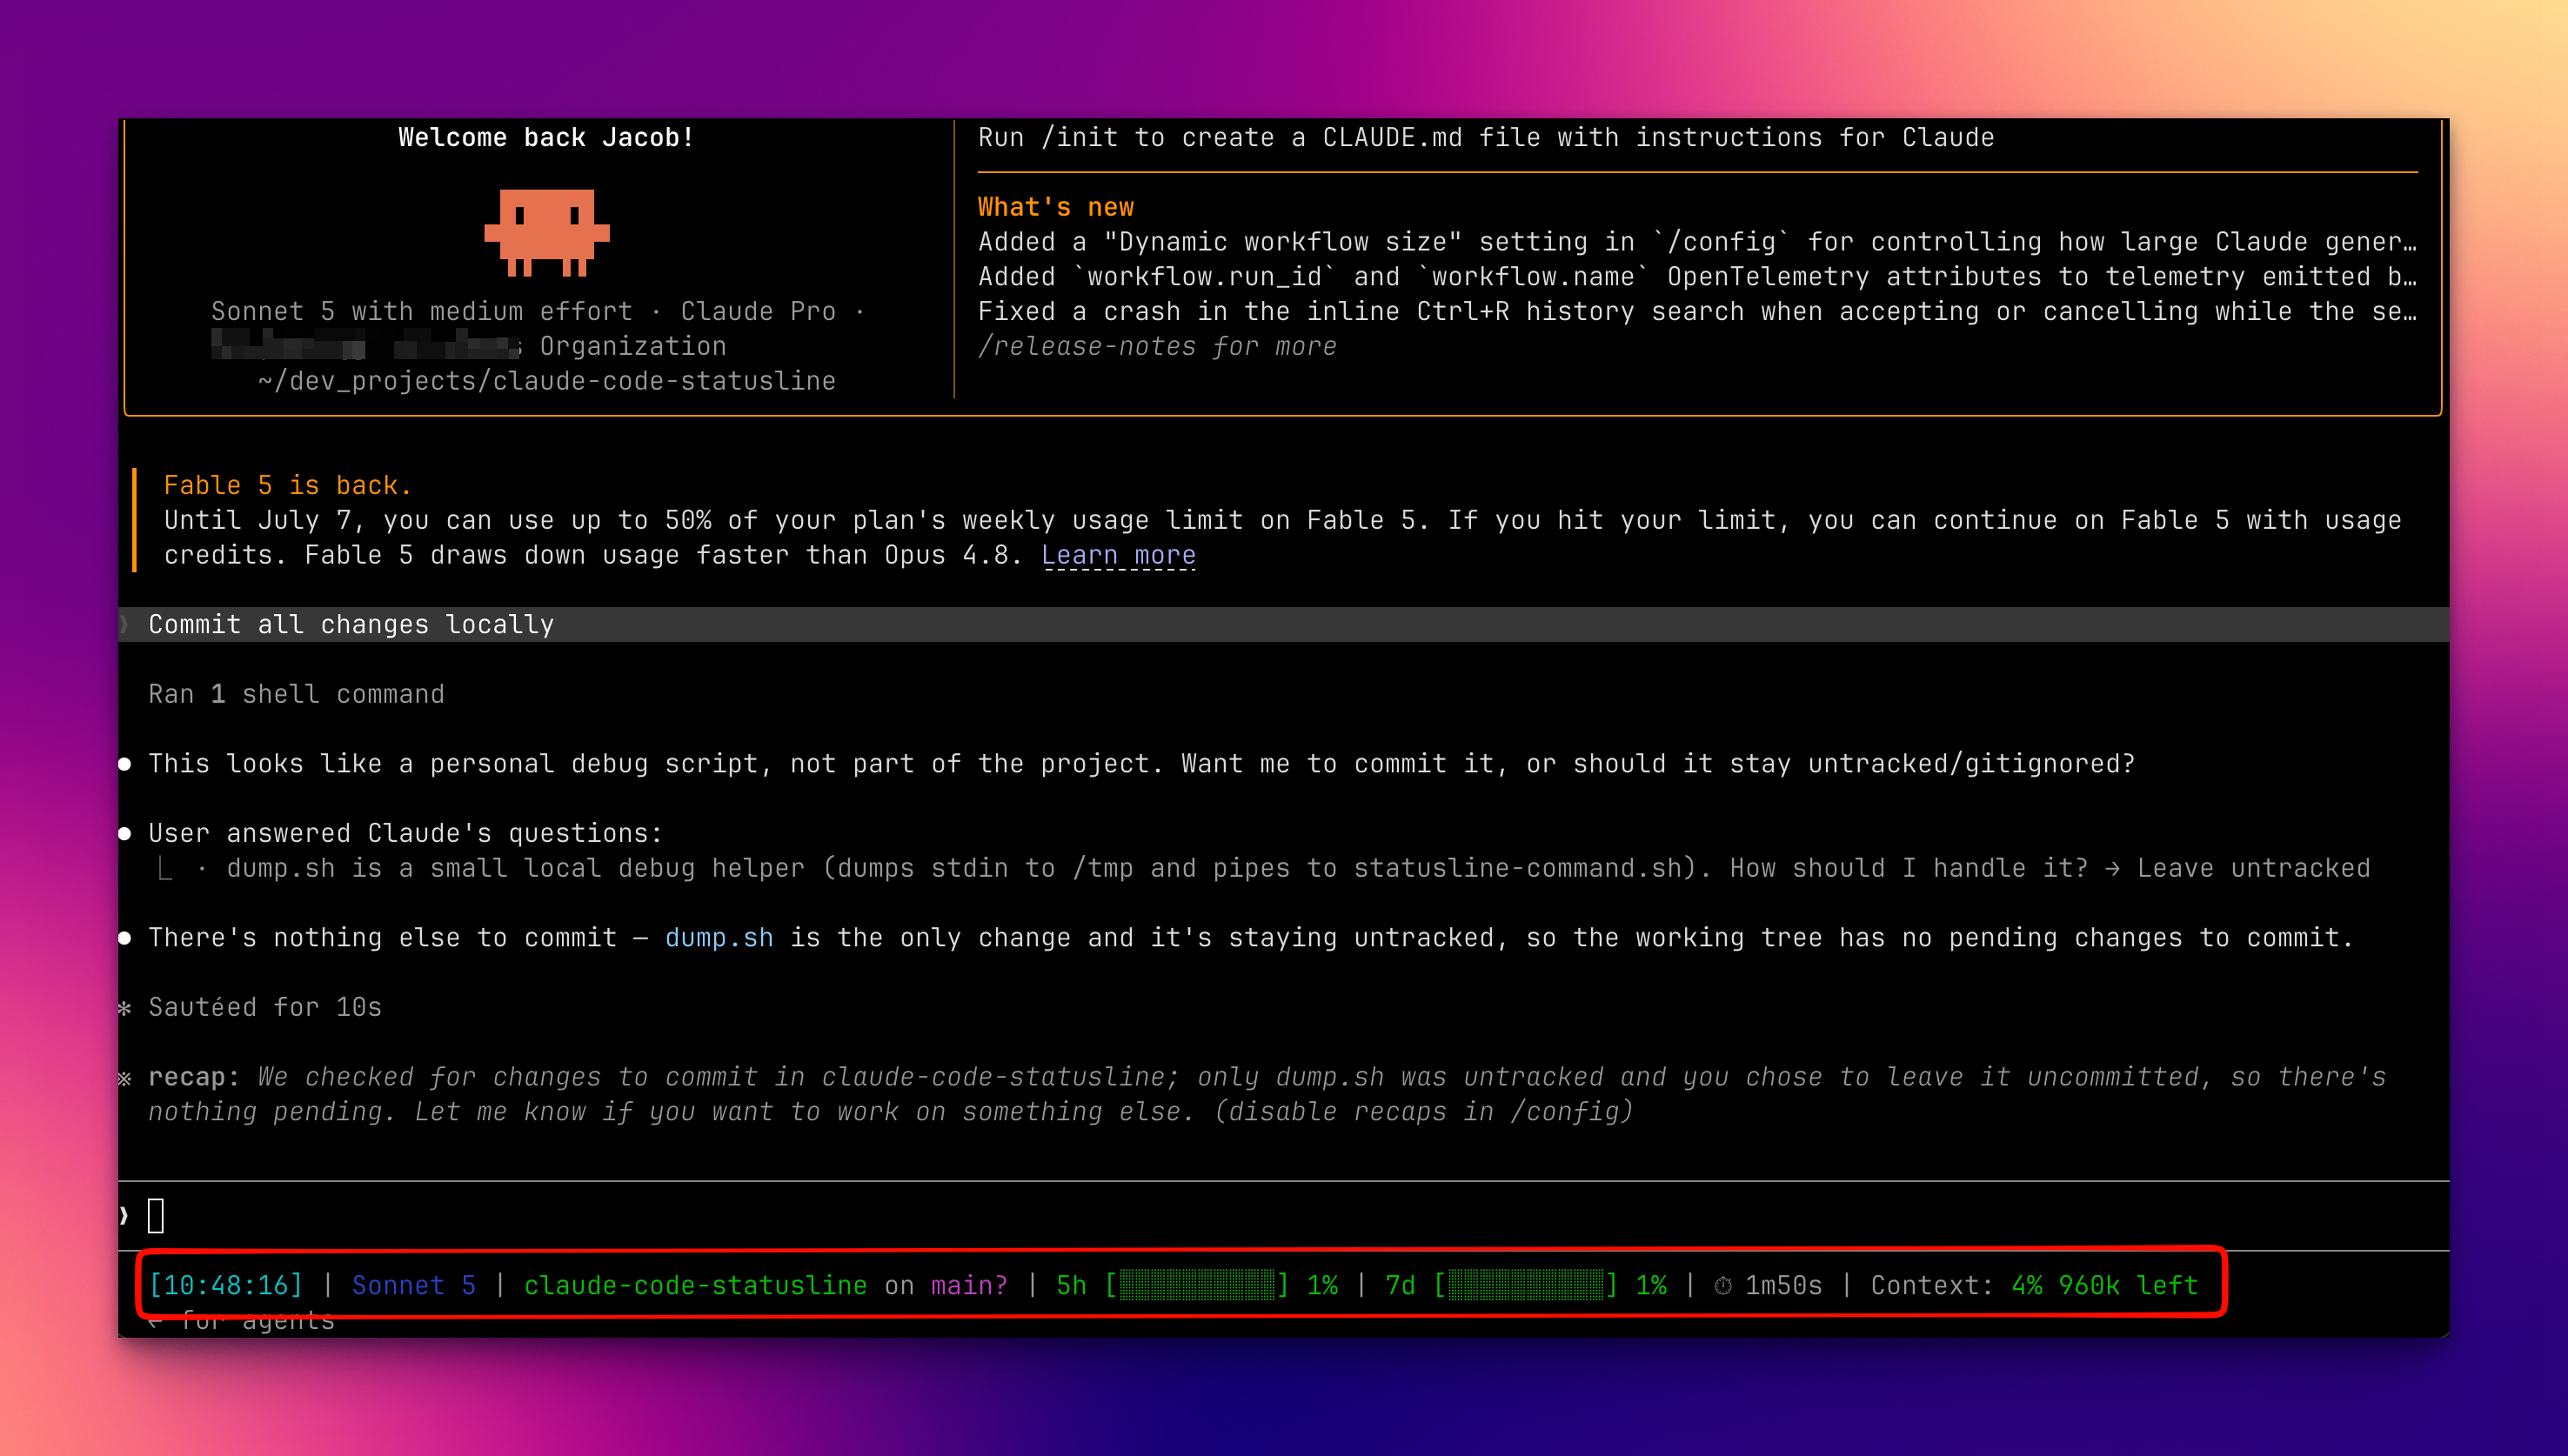
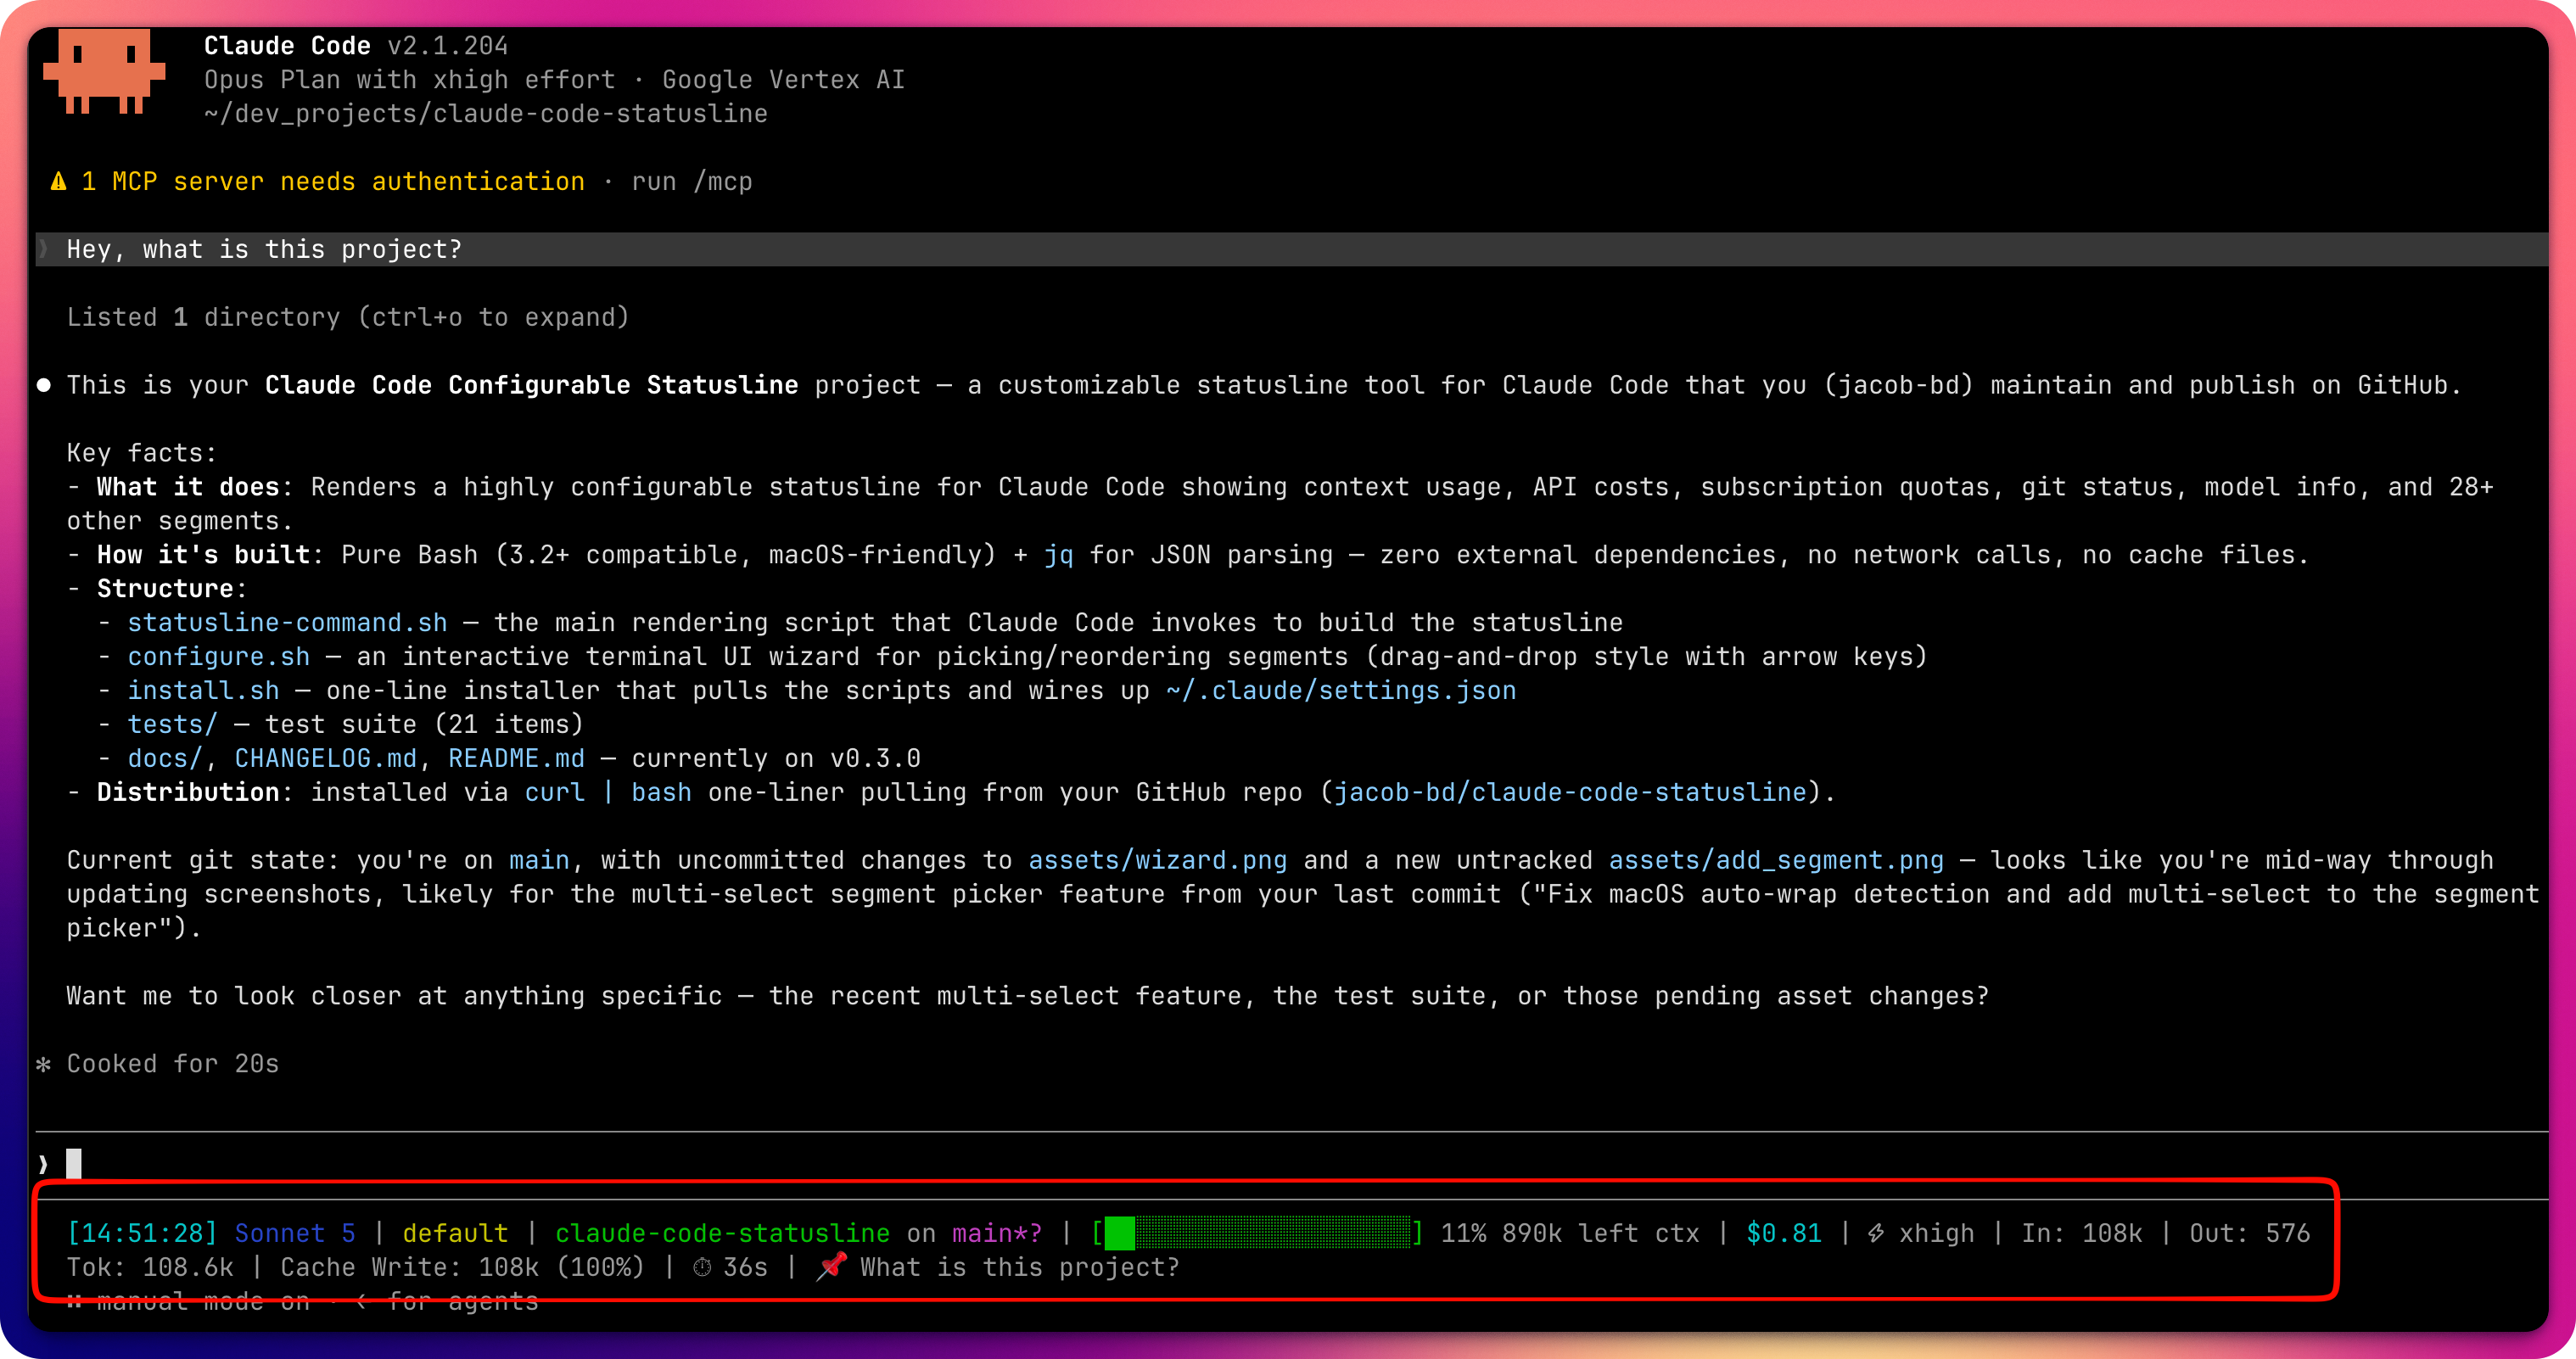
Update statusline/wizard images, add add_segment image, and update README

diff --git a/README.md b/README.md
@@ -65,6 +65,9 @@ bash ~/.claude/configure.sh
 1. Use `↑`/`↓` to move the cursor through your enabled segments — they're listed in the exact order they'll appear in your statusline.
 2. Press `Enter` on a segment to pick it up, then `↑`/`↓` to slide it to a new position; `Enter` or `Esc` drops it back in place.
 3. Press `a` to add a new segment from the ones not yet enabled, `d` to remove the highlighted one, `n` to split the statusline onto a new line right after the highlighted segment, or `r` to reset to the defaults.
+
+   ![Add Segment Picker](assets/add_segment.png)
+   This is the add segment image.
 4. The live preview updates instantly and is generated by the same rendering code your real statusline uses — what you see is exactly what you'll get.
 5. Press `s` to save your configuration to `~/.claude/statusline-config.json`, or `q` to quit without saving.
 